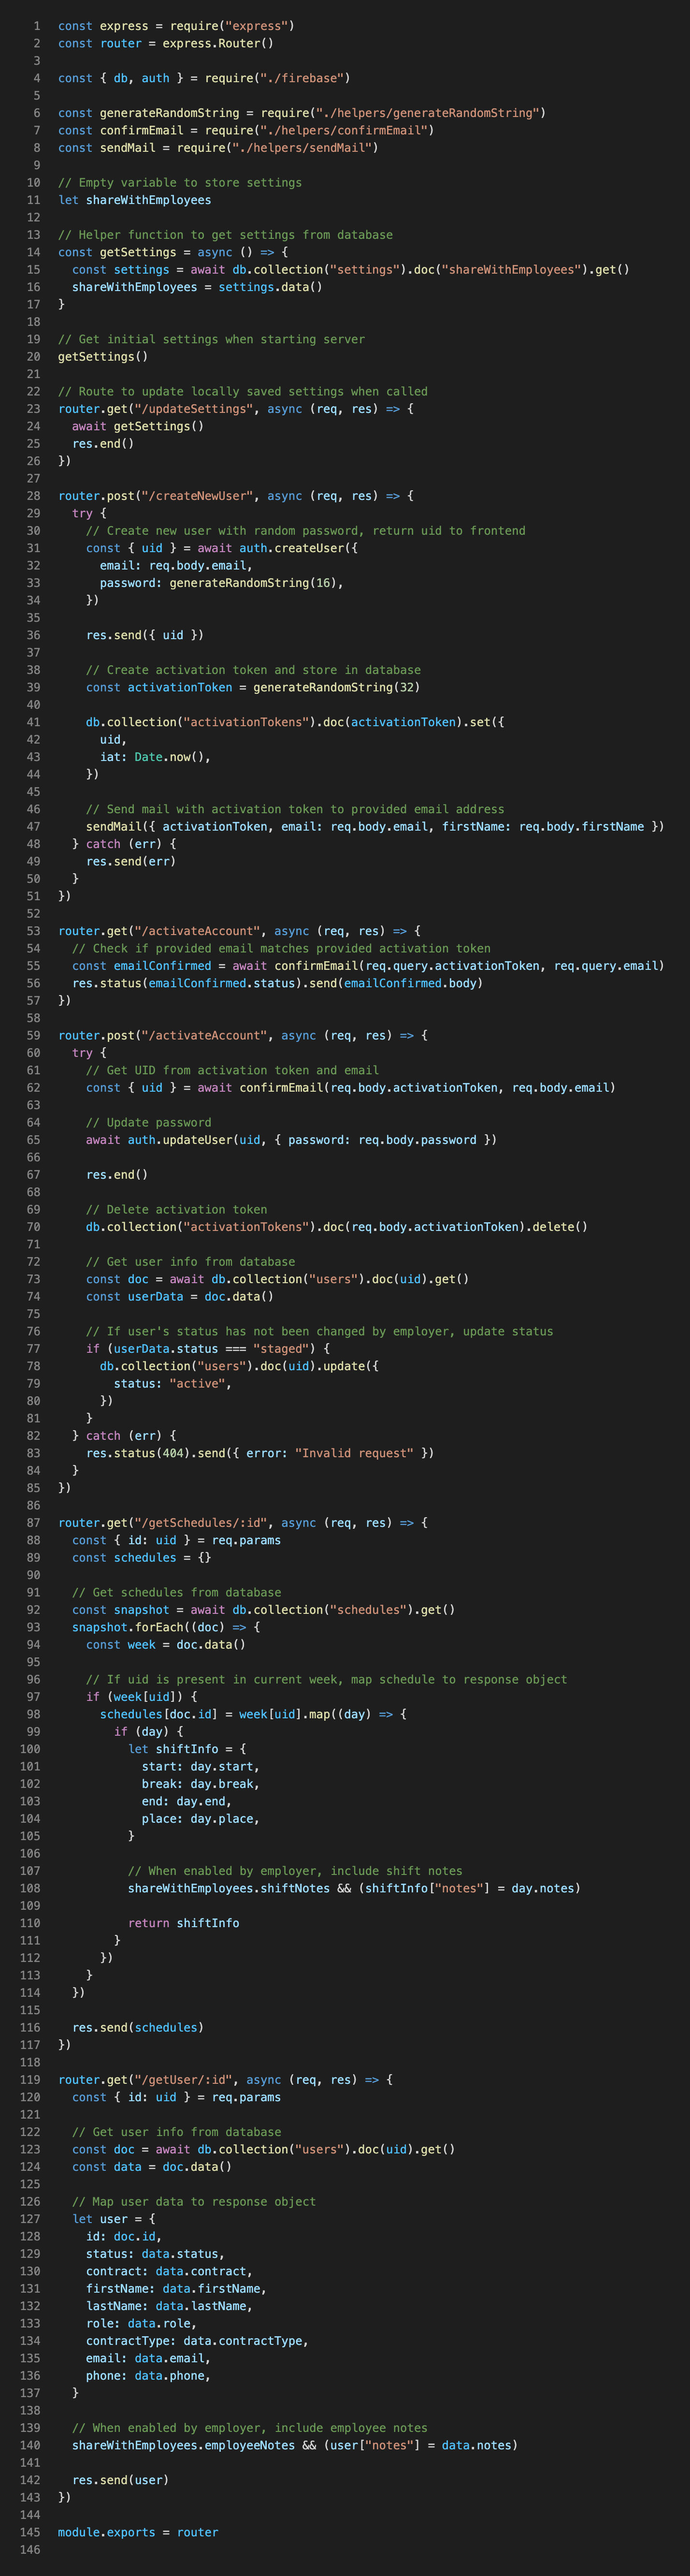
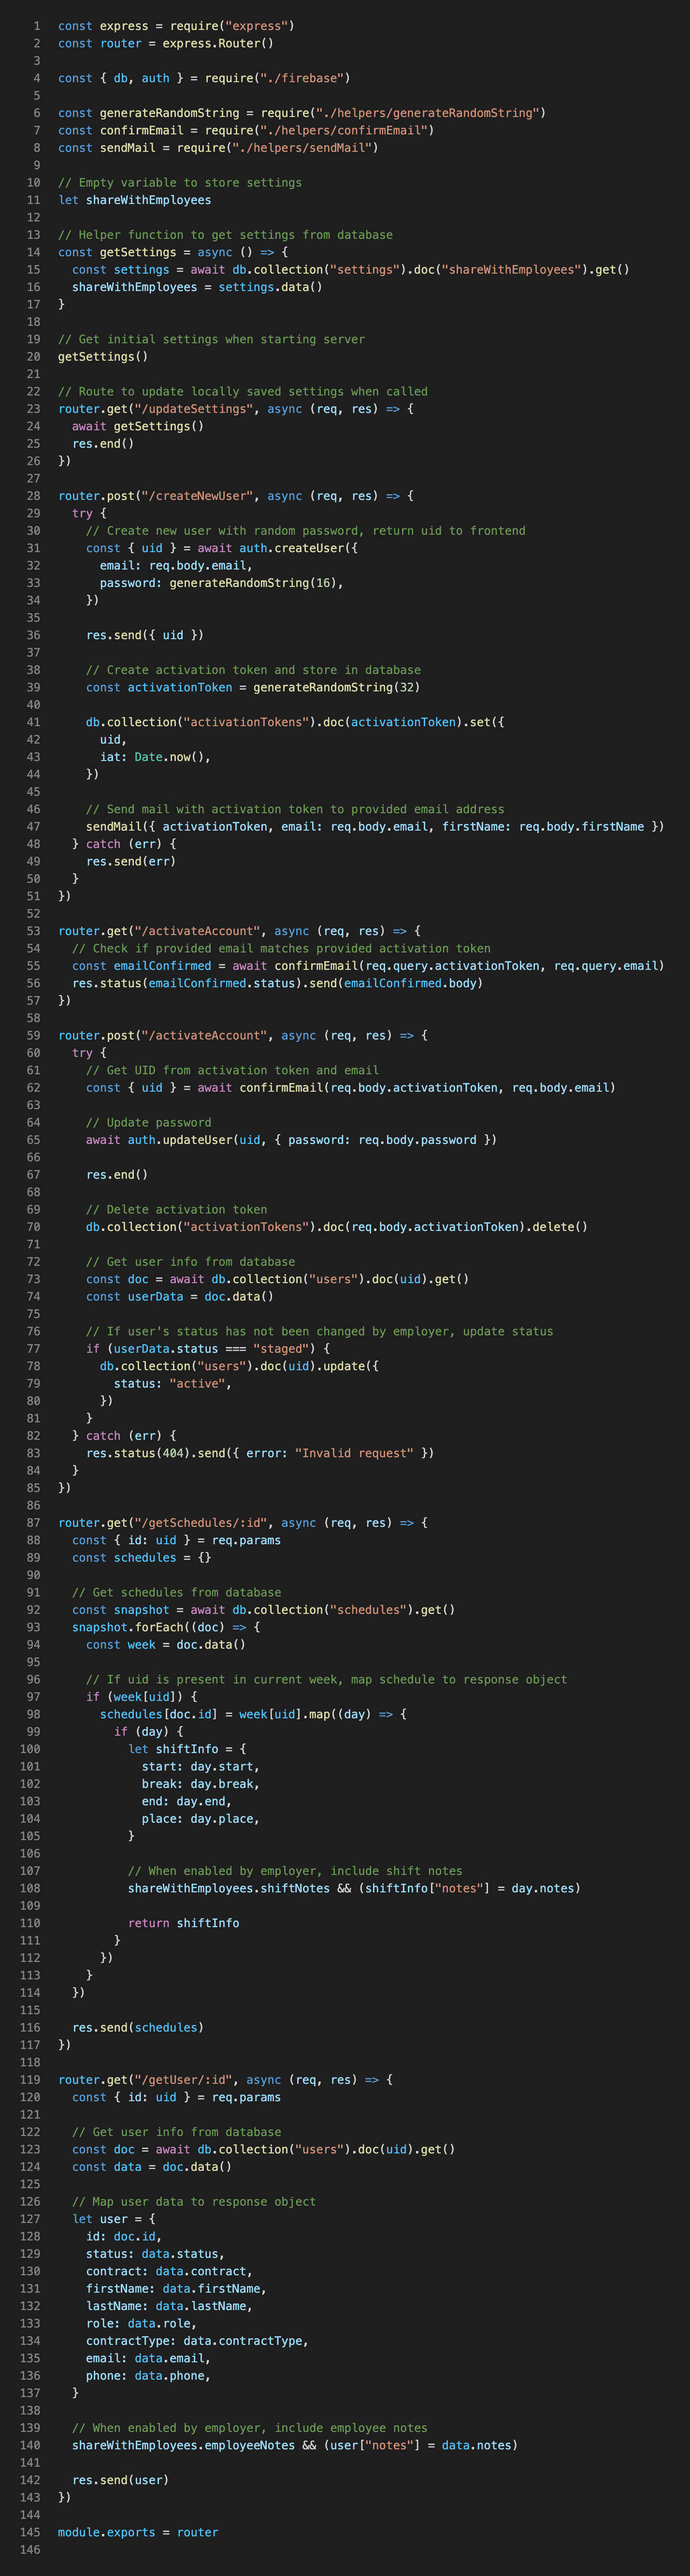
Optimize images

diff --git a/src/views/Spark.vue b/src/views/Spark.vue
@@ -5,10 +5,10 @@
   <section class="two-images" id="hero">
     <div class="container">
       <div class="img-wrapper">
-        <img src="/images/spark_employeelist.jpeg" alt="Spark Employee List" />
+        <img src="/images/spark_employeelist.jpg" alt="Spark Employee List" />
       </div>
       <div class="img-wrapper">
-        <img src="/images/spark_planner.png" alt="Spark Planner" />
+        <img src="/images/spark_planner.jpg" alt="Spark Planner" />
       </div>
     </div>
   </section>

diff --git a/src/assets/styles/main.css b/src/assets/styles/main.css
@@ -602,7 +602,7 @@ section#features .container .feature p:last-child {
 }
 
 section#spark-admin-code {
-  background-color: #1e1e1e;
+  background-color: #1f1f1f;
   margin-bottom: 120px;
   background-image: url("../../../public/images/spark_feature_admin_code.jpg");
   background-repeat: no-repeat;

diff --git a/src/assets/styles/main.scss b/src/assets/styles/main.scss
@@ -613,7 +613,7 @@ section#features {
 }
 
 section#spark-admin-code {
-  background-color: #1e1e1e;
+  background-color: #1f1f1f;
   margin-bottom: gap(8);
   background-image: url("../../../public/images/spark_feature_admin_code.jpg");
   background-repeat: no-repeat;
